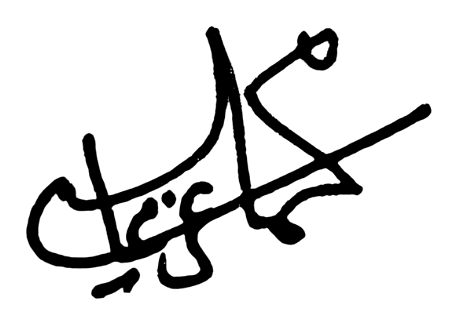
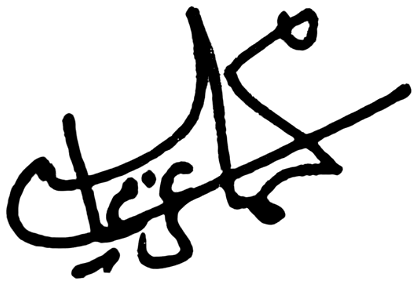
fix: polish Template A director signature

Changed region(s): [[0.0, 0.0281, 0.9952, 0.9825]]

diff --git a/components/admin/ProfessionalScaffoldCertificateDocument.tsx b/components/admin/ProfessionalScaffoldCertificateDocument.tsx
@@ -573,7 +573,21 @@ export function ProfessionalScaffoldCertificateDocument({ data, config }: { data
                 the seal's horizontal footprint (a real bug caught here: the
                 two were colliding at 320px/148px). */}
             <div style={{ textAlign: "center", fontSize: 11.5, width: 248 }}>
-              <img src={config.signature_url || DEFAULT_SIGNATURE_URL} alt="" style={{ height: 65, maxWidth: 236, objectFit: "contain" }} />
+              <img
+                src={config.signature_url || DEFAULT_SIGNATURE_URL}
+                alt=""
+                style={{
+                  display: "block",
+                  width: 236,
+                  height: 65,
+                  margin: "0 auto",
+                  objectFit: "contain",
+                  objectPosition: "center bottom",
+                  background: "transparent",
+                  border: 0,
+                  boxShadow: "none",
+                }}
+              />
               <div style={{ borderTop: `1.5px solid ${gold}`, margin: "6px 0 6px" }} />
               <strong style={{ color: navy, fontSize: 12.5, whiteSpace: "nowrap", display: "block" }}>Muhammad Azri Bin Mohd Latifi Amir</strong>
               <div style={{ color: "#6b7280", marginTop: 3 }}>Director</div>

diff --git a/lib/professional-scaffold-certificate-html.ts b/lib/professional-scaffold-certificate-html.ts
@@ -278,7 +278,7 @@ export function renderProfessionalScaffoldCertificateFront(data: CertData, confi
   const durationBlock = ribbonBanner(`<span style="font-size:15px;font-weight:600;letter-spacing:.6px;">${esc(duration)}</span>`, navy, gold, "margin:8px auto 0;display:block;width:fit-content;", "gold");
   const dateBlock = dateRange ? `<p style="font-size:12.5px;color:#4b5563;margin:5px 0 0;"><strong style="color:${navy};">Conducted from</strong> ${esc(dateRange)}</p>` : "";
   const qrHtml = config.show_qr !== false && data.qr_svg ? qrCard(data.qr_svg, navy, gold, 76, true) : "";
-  const signatureImg = `<img src="${esc(config.signature_url || DEFAULT_SIGNATURE_URL)}" alt="" style="height:65px;max-width:236px;object-fit:contain;"/>`;
+  const signatureImg = `<img src="${esc(config.signature_url || DEFAULT_SIGNATURE_URL)}" alt="" style="display:block;width:236px;height:65px;margin:0 auto;object-fit:contain;object-position:center bottom;background:transparent;border:0;box-shadow:none;"/>`;
 
   return `<div style="width:${PAGE_W};height:${PAGE_H};margin:0 auto;position:relative;background:#FDFCF8;box-sizing:border-box;font-family:Georgia,'Times New Roman',serif;line-height:1.3;color:#1F2937;overflow:hidden;">
   ${pageVignette(navy)}
